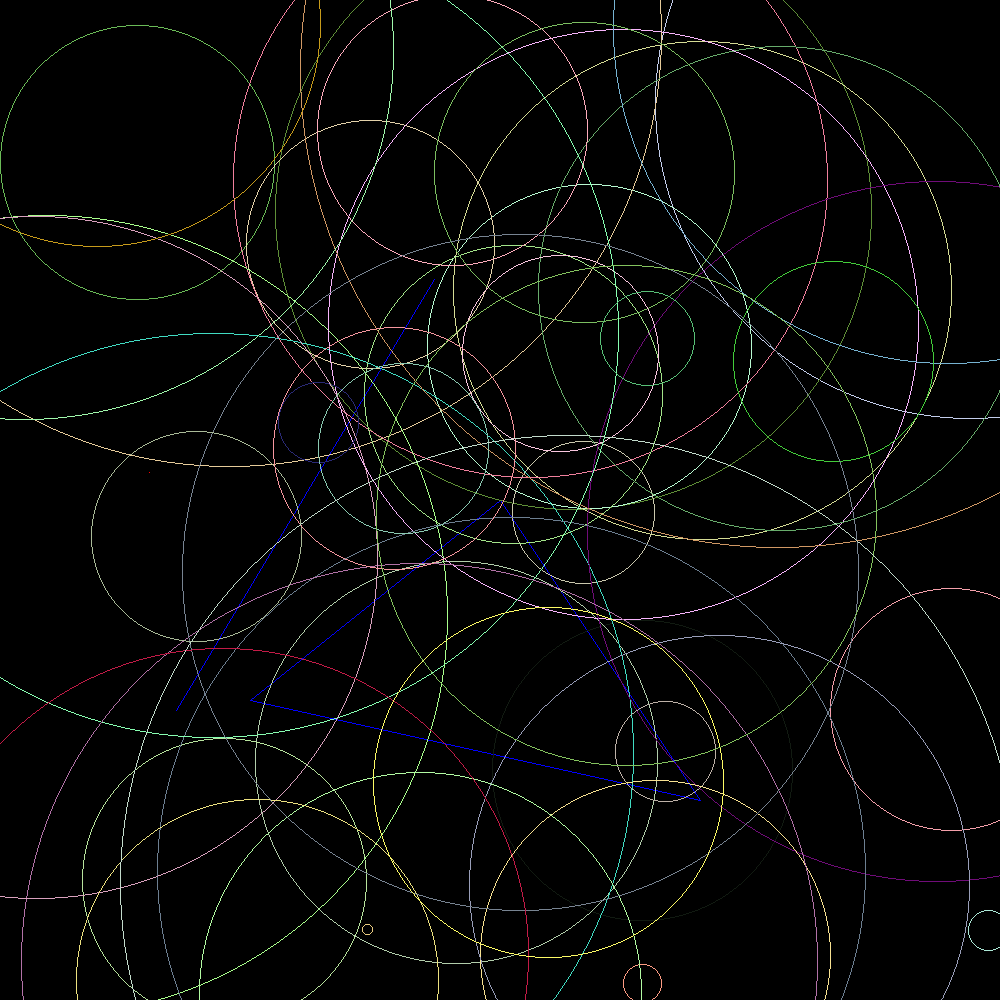
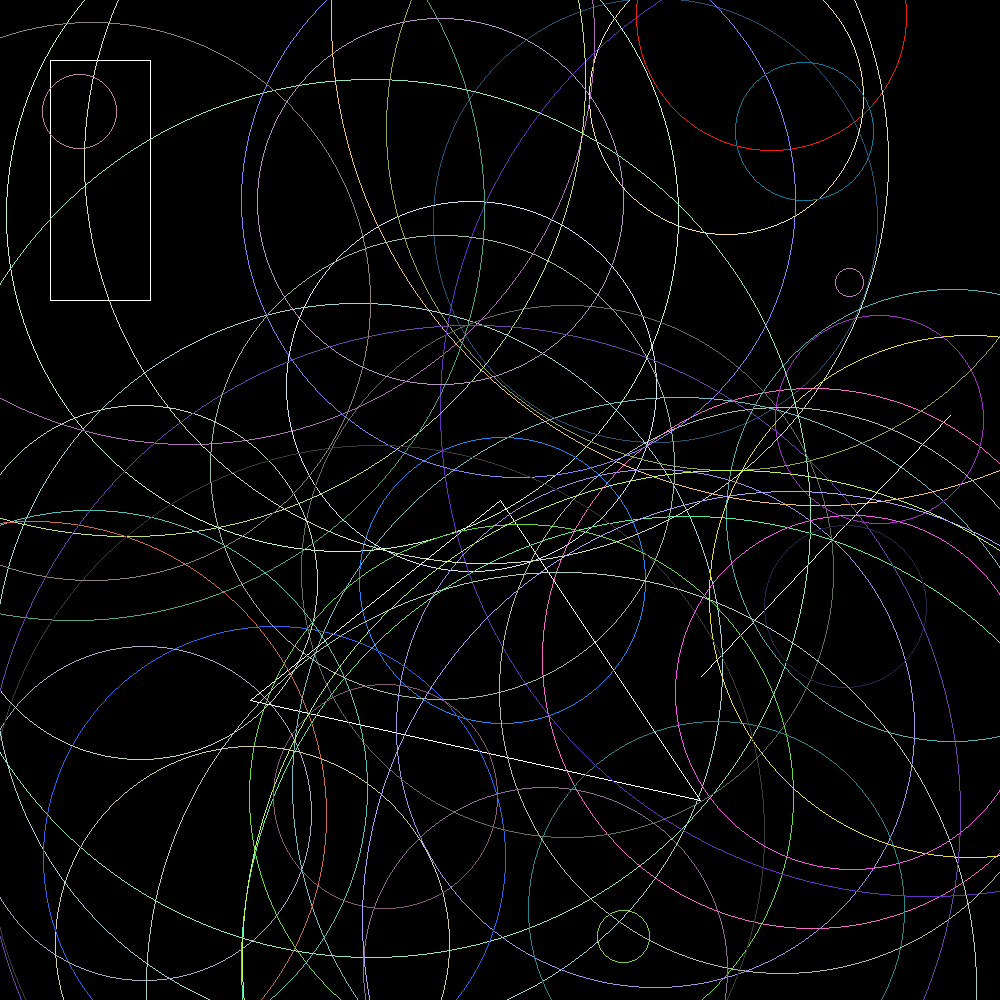
added Rectangle implemnation + small clean up

diff --git a/drawing/src/geometrical_shapes.rs b/drawing/src/geometrical_shapes.rs
@@ -2,29 +2,29 @@ use rand::Rng;
 use raster::{Color, Image};
 
 /* Types declarations */
-#[derive(Clone, Debug, PartialEq, Eq)]
+#[derive(Clone, Debug)]
 pub struct Point(pub i32, pub i32);
 
-#[derive(Clone, Debug, PartialEq, Eq)]
+#[derive(Clone, Debug)]
 pub struct Line {
     pub first_p: Point,
     pub sec_p: Point,
 }
 
-#[derive(Clone, Debug, PartialEq, Eq)]
+#[derive(Clone, Debug)]
 pub struct Triangle {
     pub first_p: Point,
     pub sec_p: Point,
     pub third_p: Point,
 }
 
-#[derive(Clone, Debug, PartialEq, Eq)]
+#[derive(Clone, Debug)]
 pub struct Rectangle {
-   pub first_p: Point,
-   pub sec_p: Point,
+    pub first_p: Point,
+    pub sec_p: Point,
 }
 
-#[derive(Clone, Debug, PartialEq, Eq)]
+#[derive(Clone, Debug)]
 pub struct Circle {
     pub center: Point,
     pub radius: i32,
@@ -32,17 +32,15 @@ pub struct Circle {
 
 /* Traits */
 pub trait Drawable {
+    fn draw(&self, image: &mut Image);
 
-    fn draw(&self, image: &mut raster::Image);
-
-    fn color(&self) -> raster::Color {
-        raster::Color::black()
+    fn color(&self) -> Color {
+        Color::black()
     }
-    
 }
 
 pub trait Displayable {
-    fn display(&mut self, x: i32, y: i32, color: raster::Color);
+    fn display(&mut self, x: i32, y: i32, color: Color);
 }
 
 /* Implementations */
@@ -55,7 +53,6 @@ impl Point {
 
     // Create a random point in a given width and height
     pub fn random(width: i32, height: i32) -> Point {
-
         let mut rng = rand::thread_rng();
         let x = rng.gen_range(0..width);
         let y = rng.gen_range(0..height);
@@ -65,10 +62,10 @@ impl Point {
 }
 
 impl Drawable for Point {
-    fn draw(&self, image: &mut raster::Image) {
+    fn draw(&self, image: &mut Image) {
         let color = self.color();
         if self.0 >= 0 && self.0 < image.width && self.1 >= 0 && self.1 < image.height {
-            image.set_pixel(self.0, self.1, color).unwrap();
+            image.display(self.0, self.1, color);
         }
     }
 
@@ -77,19 +74,12 @@ impl Drawable for Point {
     }
 }
 
-impl Displayable for Point {
-    fn display(&mut self, x: i32, y: i32, color: Color) {
-        self.0 = x;
-        self.1 = y;
-    }
-}
-
 impl Line {
     // Create a new line from two points
     pub fn new(a: &Point, b: &Point) -> Line {
-        Line { 
-            first_p: a.clone(), 
-            sec_p: b.clone() 
+        Line {
+            first_p: a.clone(),
+            sec_p: b.clone(),
         }
     }
 
@@ -102,7 +92,7 @@ impl Line {
 }
 
 impl Drawable for Line {
-    fn draw(&self, image: &mut raster::Image) {
+    fn draw(&self, image: &mut Image) {
         let color = self.color();
 
         let mut x0 = self.first_p.0;
@@ -118,7 +108,7 @@ impl Drawable for Line {
 
         loop {
             if x0 >= 0 && x0 < image.width && y0 >= 0 && y0 < image.height {
-                image.set_pixel(x0, y0, color.clone()).unwrap();
+                image.display(x0, y0, color.clone());
             }
             if x0 == x1 && y0 == y1 {
                 break;
@@ -136,33 +126,22 @@ impl Drawable for Line {
     }
 
     fn color(&self) -> Color {
-        Color::rgb(0, 0, 255) // blue
-    }
-}
-
-impl Displayable for Line {
-    fn display(&mut self, x: i32, y: i32, color: Color) {
-
-        self.first_p.0 = x;
-        self.first_p.1 = y;
-        self.sec_p.0 = x + 1;
-        self.sec_p.1 = y + 1;
-
+        Color::white()
     }
 }
 
 impl Triangle {
     pub fn new(a: &Point, b: &Point, c: &Point) -> Triangle {
-        Triangle { 
-            first_p: a.clone(), 
-            sec_p: b.clone(), 
-            third_p: c.clone() 
+        Triangle {
+            first_p: a.clone(),
+            sec_p: b.clone(),
+            third_p: c.clone(),
         }
     }
 }
 
 impl Drawable for Triangle {
-    fn draw(&self, image: &mut raster::Image) {
+    fn draw(&self, image: &mut Image) {
         let line1 = Line::new(&self.first_p, &self.sec_p);
         let line2 = Line::new(&self.sec_p, &self.third_p);
         let line3 = Line::new(&self.third_p, &self.first_p);
@@ -177,18 +156,6 @@ impl Drawable for Triangle {
     }
 }
 
-impl Displayable for Triangle {
-    fn display(&mut self, x: i32, y: i32, color: Color) {
-        self.first_p.0 = x;
-        self.first_p.1 = y;
-        self.sec_p.0 = x + 1;
-        self.sec_p.1 = y + 1;
-        self.third_p.0 = x + 2;
-        self.third_p.1 = y + 2;
-    }
-}
-
-
 // Remove the dashes _ when you work on something
 impl Circle {
     pub fn new(center: Point, radius: i32) -> Self {
@@ -197,18 +164,20 @@ impl Circle {
 
     pub fn random(width: i32, height: i32) -> Self {
         let mut rng = rand::thread_rng();
-        Self::new(Point::random(width, height), rng.gen_range(0..width.min(height) / 2))
+        Self::new(
+            Point::random(width, height),
+            rng.gen_range(0..width.min(height) / 2),
+        )
     }
 }
 
-
 impl Drawable for Circle {
-    fn draw(&self, image: &mut raster::Image) {
+    fn draw(&self, image: &mut Image) {
         let cx = self.center.0;
         let cy = self.center.1;
         let r = self.radius;
         let color = self.color();
-        
+
         // Using Bresenham's circle algorithm
         let mut x = 0;
         let mut y = r;
@@ -217,28 +186,28 @@ impl Drawable for Circle {
         while y >= x {
             // Draw eight symmetric points
             if cx + x >= 0 && cx + x < image.width && cy + y >= 0 && cy + y < image.height {
-                image.set_pixel(cx + x, cy + y, color.clone()).unwrap();
+                image.display(cx + x, cy + y, color.clone());
             }
             if cx + x >= 0 && cx + x < image.width && cy - y >= 0 && cy - y < image.height {
-                image.set_pixel(cx + x, cy - y, color.clone()).unwrap();
+                image.display(cx + x, cy - y, color.clone());
             }
             if cx - x >= 0 && cx - x < image.width && cy + y >= 0 && cy + y < image.height {
-                image.set_pixel(cx - x, cy + y, color.clone()).unwrap();
+                image.display(cx - x, cy + y, color.clone());
             }
             if cx - x >= 0 && cx - x < image.width && cy - y >= 0 && cy - y < image.height {
-                image.set_pixel(cx - x, cy - y, color.clone()).unwrap();
+                image.display(cx - x, cy - y, color.clone());
             }
             if cx + y >= 0 && cx + y < image.width && cy + x >= 0 && cy + x < image.height {
-                image.set_pixel(cx + y, cy + x, color.clone()).unwrap();
+                image.display(cx + y, cy + x, color.clone());
             }
             if cx + y >= 0 && cx + y < image.width && cy - x >= 0 && cy - x < image.height {
-                image.set_pixel(cx + y, cy - x, color.clone()).unwrap();
+                image.display(cx + y, cy - x, color.clone());
             }
             if cx - y >= 0 && cx - y < image.width && cy + x >= 0 && cy + x < image.height {
-                image.set_pixel(cx - y, cy + x, color.clone()).unwrap();
+                image.display(cx - y, cy + x, color.clone());
             }
             if cx - y >= 0 && cx - y < image.width && cy - x >= 0 && cy - x < image.height {
-                image.set_pixel(cx - y, cy - x, color.clone()).unwrap();
+                image.display(cx - y, cy - x, color.clone());
             }
 
             if d <= 0 {
@@ -262,23 +231,30 @@ impl Drawable for Circle {
     }
 }
 
-
-impl Displayable for Circle {
-    fn display(&mut self, x: i32, y: i32, _color: Color) {
-        self.center.0 = x;
-        self.center.1 = y;
+impl Rectangle {
+    pub fn new(a: &Point, b: &Point) -> Self {
+        Rectangle {
+            first_p: a.clone(),
+            sec_p: b.clone(),
+        }
     }
 }
-/*
-
-impl Rectangle {
-    pub fn new(_a:Point,_b:Point){}
-}
-
 
 impl Drawable for Rectangle {
-    fn draw(&self, _image: &mut raster::Image) {}
-}
+    fn draw(&self, image: &mut Image) {
+        let a = Point::new(self.first_p.0, self.first_p.1);
+        let b = Point::new(self.sec_p.0, self.first_p.1);
+        let c = Point::new(self.sec_p.0, self.sec_p.1);
+        let d = Point::new(self.first_p.0, self.sec_p.1);
 
-impl Displayable for Rectangle {}
-*/
+        let points = [&a, &b, &c, &d];
+        for i in 0..points.len() {
+            let start = points[i];
+            let end = points[(i + 1) % points.len()];
+            Line::new(start, end).draw(image);
+        }
+    }
+    fn color(&self) -> Color {
+        Color::white()
+    }
+}

diff --git a/drawing/src/main.rs b/drawing/src/main.rs
@@ -11,8 +11,8 @@ fn main() {
 
     gs::Point::random(image.width, image.height).draw(&mut image);
 
-    // let rectangle = gs::Rectangle::new(&gs::Point::new(150, 300), &gs::Point::new(50, 60));
-    // rectangle.draw(&mut image);
+    let rectangle = gs::Rectangle::new(&gs::Point::new(150, 300), &gs::Point::new(50, 60));
+    rectangle.draw(&mut image);
 
     let triangle = gs::Triangle::new(
         &gs::Point::new(500, 500),
